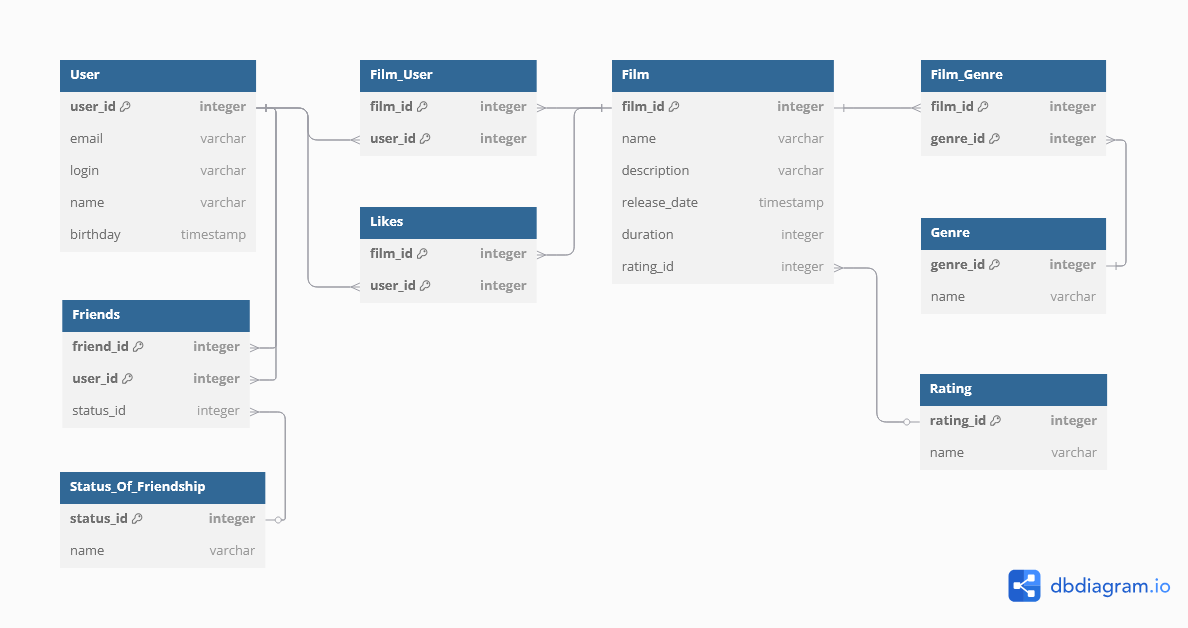
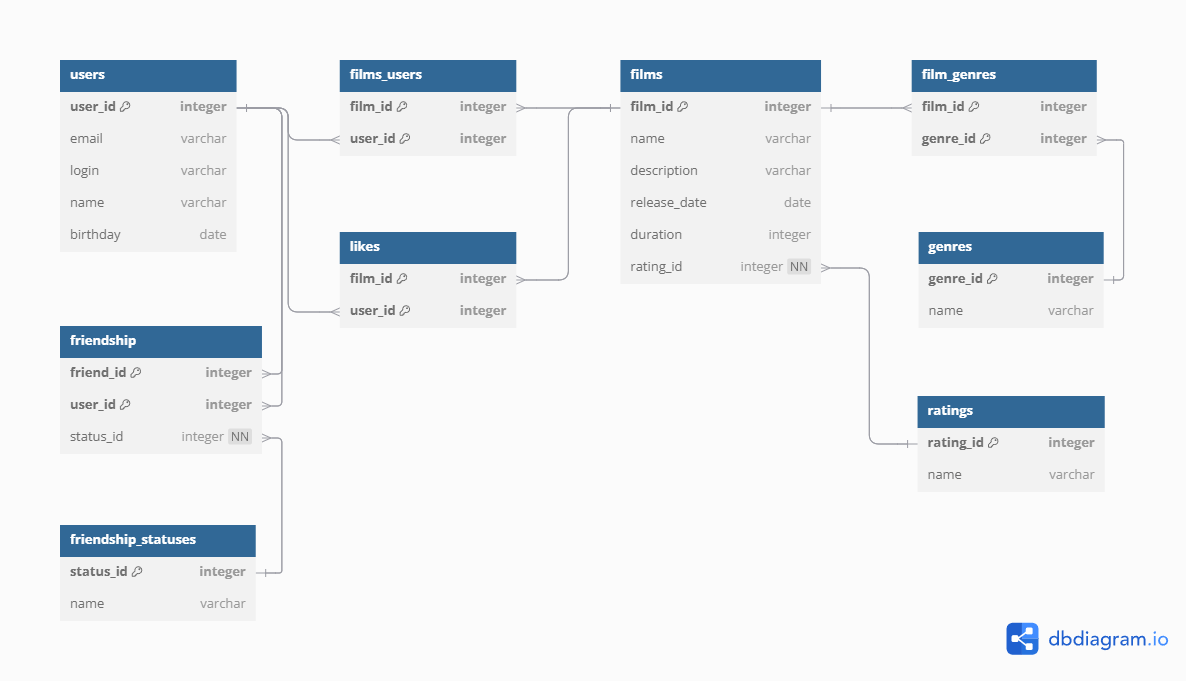
v. 1.8 Промежуточное задание месяца SQL: улучшена схема базы данных и доработаны SQL-запросы.

diff --git a/README.md b/README.md
@@ -2,50 +2,58 @@
 
 **Filmorate** - Spring Boot приложение для поиска и оценки фильмов.
 
+## Содержание
+
+- [ER-диаграмма](#er-диаграмма)
+- [Функционал](#функционал)
+- [Примеры SQL-запросов для модели User](#примеры-sql-запросов-для-модели-user)
+- [Примеры SQL-запросов для модели Film](#примеры-sql-запросов-для-модели-film)
+
 ## ER-диаграмма
 
-[Функционал](#функционал) | [Примеры SQL-запросов для модели User](#примеры-sql-запросов-для-модели-user) |
-[Примеры SQL-запросов для модели Film](#примеры-sql-запросов-для-модели-film)
-
-![Схема базы данных](assets/images/Filmorate_table.png)
+![Схема базы данных](assets/images/filmorate_table.png)
 
 ## Функционал
 
-- **User:** информация о пользователях.
+## Users
 
-- **Friends:** информация о дружбе между пользователями.
+- **users:** информация о пользователях.
 
-- **Status_Of_Friendship:** соединительная таблица, связывающая пользователей с их статусами дружбы.
+- **friendships:** информация о дружбе между пользователями.
 
-- **Film:** данные о фильмах.
+- **friendship_statuses:** соединительная таблица, связывающая пользователей с их статусами дружбы.
 
-- **Rating:** рейтинг фильмов.
+## Films
 
-- **Genre:** жанры фильмов.
+- **films:** данные о фильмах.
 
-- **Film_Genre:** соединительная таблица, связывающая фильмы с жанрами.
+- **ratings:** рейтинг фильмов.
 
-- **Film_User:** соединительная таблица, связывающая пользователей с фильмами.
+- **genres:** жанры фильмов.
 
-- **Likes:** лайки пользователей.
+- **film_genres:** соединительная таблица, связывающая фильмы с жанрами.
+
+- **films_users:** соединительная таблица, связывающая пользователей с фильмами.
+
+- **likes:** лайки пользователей.
 
 
 ## Примеры SQL-запросов для модели User
 
 ### 1. Создание пользователя
 
-```
-INSERT INTO User (email, 
-                  login, 
-                  name, 
-                  birthday)
+```sql
+INSERT INTO users (email, 
+                   login, 
+                   name, 
+                   birthday)
 VALUES (?, ?, ?, ?);
 ```
 
 ### 2. Обновление данных пользователя
 
-```
-UPDATE User 
+```sql
+UPDATE users 
 SET email =  ?, 
     login = ?, 
     name = ?, 
@@ -55,49 +63,49 @@ WHERE user_id = ?;
 
 ### 3. Получение всех пользователей
 
-```
-SELECT * FROM User;
+```sql
+SELECT * FROM users;
 ```
 
 ### 4. Получение пользователя по id
 
-```
+```sql
 SELECT u.*
-FROM User As u
+FROM users As u
 WHERE u.user_id = ?;
 ```
 
 ### 5. Добавление друзей
 
-```
-INSERT INTO Friends (user_id,
-                     friend_id,
-                     status_id)
+```sql
+INSERT INTO friendships (user_id,
+                         friend_id,
+                         status_id)
 VALUES (?, ?, ?);
 ```
 
 ### 6. Удаление друзей
 
-```
-DELETE FROM Friends 
+```sql
+DELETE FROM friendships 
 WHERE user_id = ? AND friend_id = ?;
 ```
 
 ### 7. Получение друзей пользователя
 
-```
+```sql
 SELECT u.*
-FROM User AS u
-JOIN Friends AS f ON u.user_id = f.user_id OR u.user_id = f.friend_id
+FROM users AS u
+JOIN friendships AS f ON u.user_id = f.user_id OR u.user_id = f.friend_id
 WHERE (f.user_id = ? OR f.friend_id = ?) AND u.user_id != ?;
 ```
 
 ### 8. Получение общих друзей
 
-```
-SELECT u.* FROM User AS u
-JOIN Friends f1 ON u.user_id = f1.friend_id
-JOIN Friends f2 ON u.user_id = f2.friend_id
+```sql
+SELECT u.* FROM users AS u
+JOIN friendships f1 ON u.user_id = f1.friend_id
+JOIN friendships f2 ON u.user_id = f2.friend_id
 WHERE f1.user_id = ? AND f2.user_id = ?;
 ```
 
@@ -106,19 +114,19 @@ WHERE f1.user_id = ? AND f2.user_id = ?;
 
 ### 1. Создание фильма
 
-```
-INSERT INTO Film (name, 
-                  description, 
-                  release_date, 
-                  duration,
-                  rating_id)
+```sql
+INSERT INTO films (name, 
+                   description, 
+                   release_date, 
+                   duration,
+                   rating_id)
 VALUES (?, ?, ?, ?, ?);
 ```
 
 ### 2. Обновление фильма
 
-```
-UPDATE Film 
+```sql
+UPDATE films 
 SET name =  ?, 
     description = ?, 
     release_date = ?, 
@@ -129,34 +137,34 @@ WHERE film_id = ?;
 
 ### 3. Получение всех фильмов
 
-```
+```sql
 SELECT f.film_id,
        f.name AS title,
        f.description,
        f.release_date,
        f.duration,
        r.name AS MPA_RATING
-FROM Film AS f
-LEFT JOIN Rating AS r ON f.rating_id = r.rating_id;
+FROM films AS f
+LEFT JOIN ratings AS r ON f.rating_id = r.rating_id;
 ```
 
 ### 4. Добавление лайка
 
-```
-INSERT INTO Likes (film_id, user_id)
+```sql
+INSERT INTO likes (film_id, user_id)
 VALUES (?, ?);
 ```
 
 ### 5. Удаление лайка
 
-```
-DELETE FROM Likes
+```sql
+DELETE FROM likes
 WHERE film_id = ? AND user_id = ?;
 ```
 
 ### 6. Получение самых популярных фильмов
 
-```
+```sql
 SELECT f.film_id, 
        f.name, 
        f.description, 
@@ -164,8 +172,8 @@ SELECT f.film_id,
        f.duration, 
        f.rating_id,
        COUNT(l.user_id) AS like_count
-FROM Film AS f
-LEFT JOIN Likes AS l ON f.film_id = l.film_id
+FROM films AS f
+LEFT JOIN likes AS l ON f.film_id = l.film_id
 GROUP BY f.film_id, 
          f.name, 
          f.description, 
